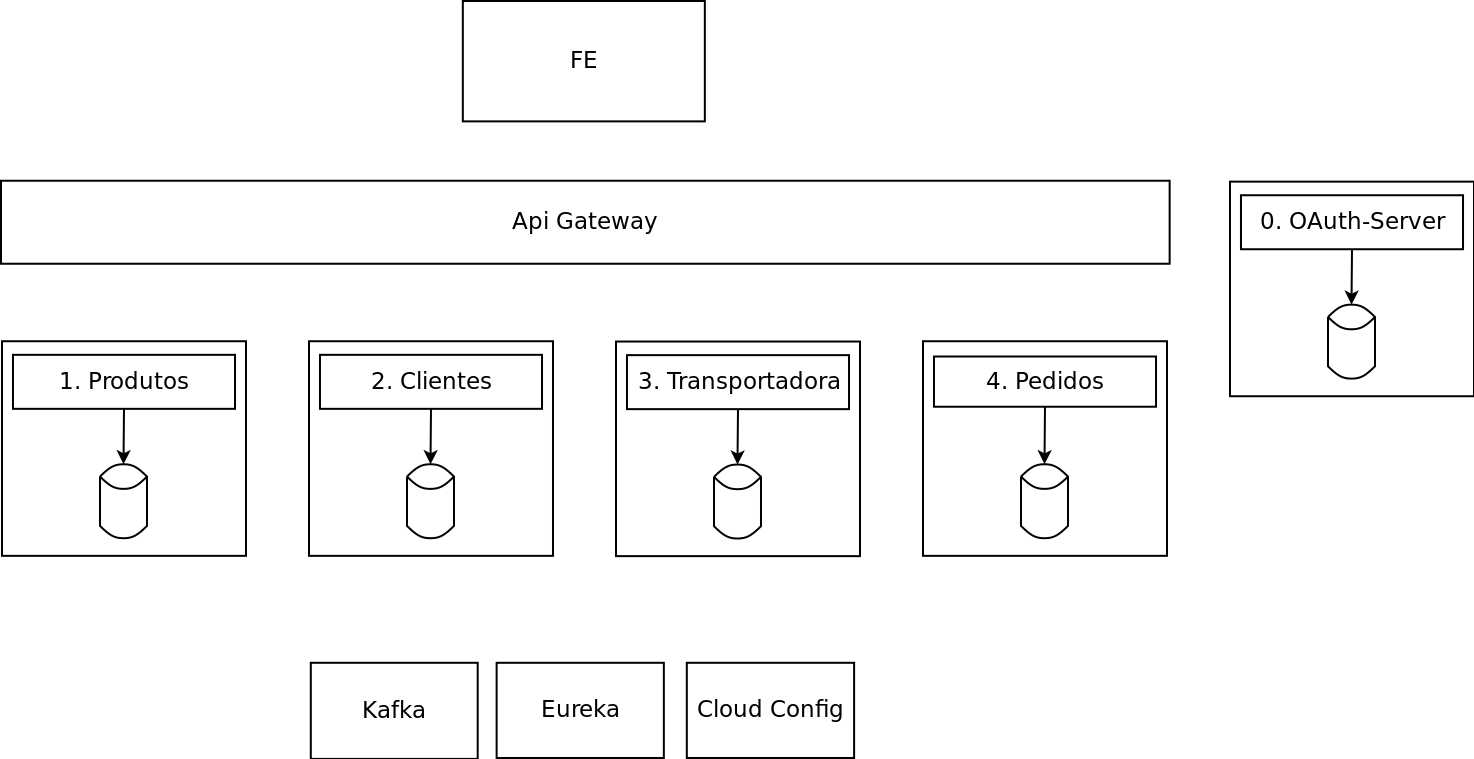
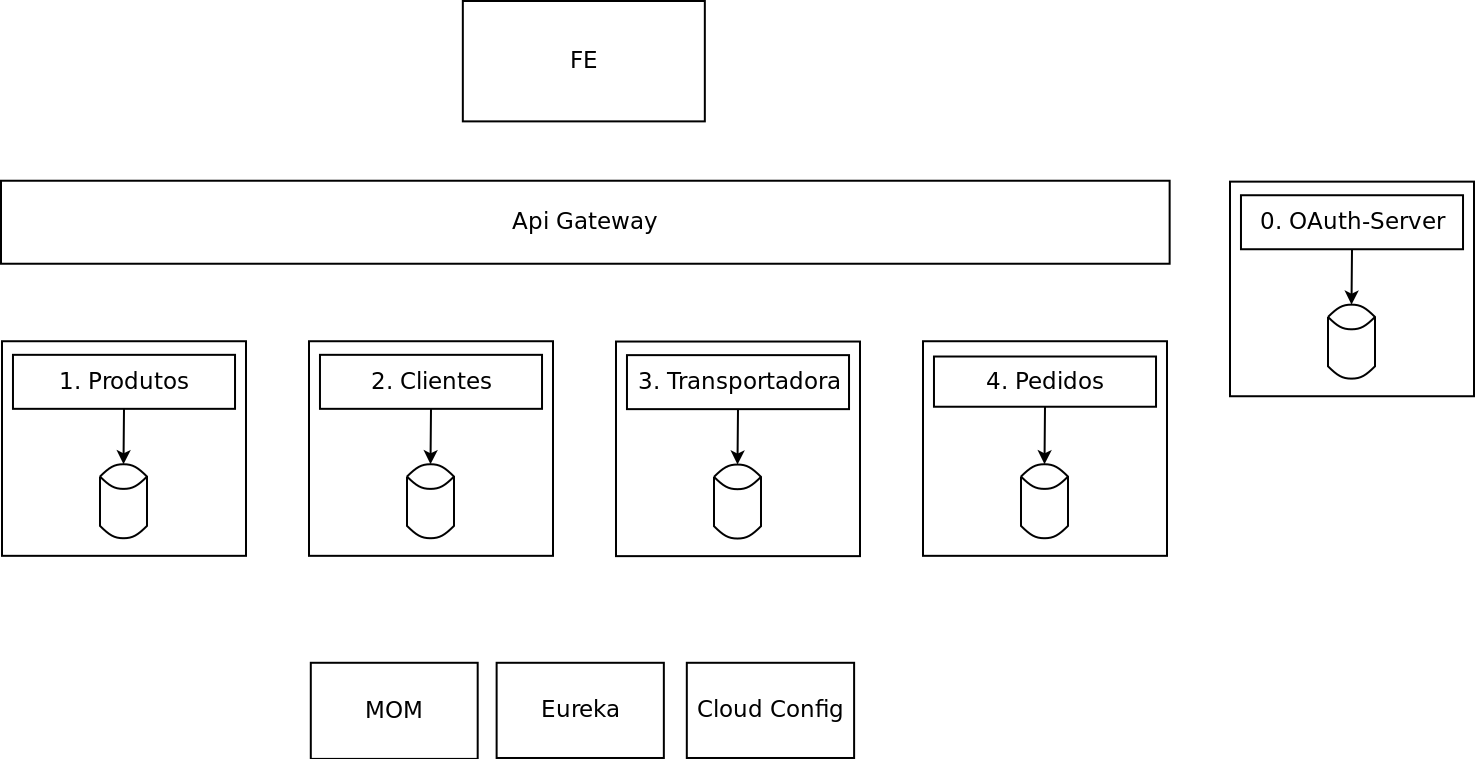
mom

diff --git a/README.md b/README.md
@@ -1,3 +1,8 @@
 # Ecommerce
 
 Projeto para estudo
+
+# MOM
+
+- https://www.cloudkarafka.com
+- https://www.cloudamqp.com
